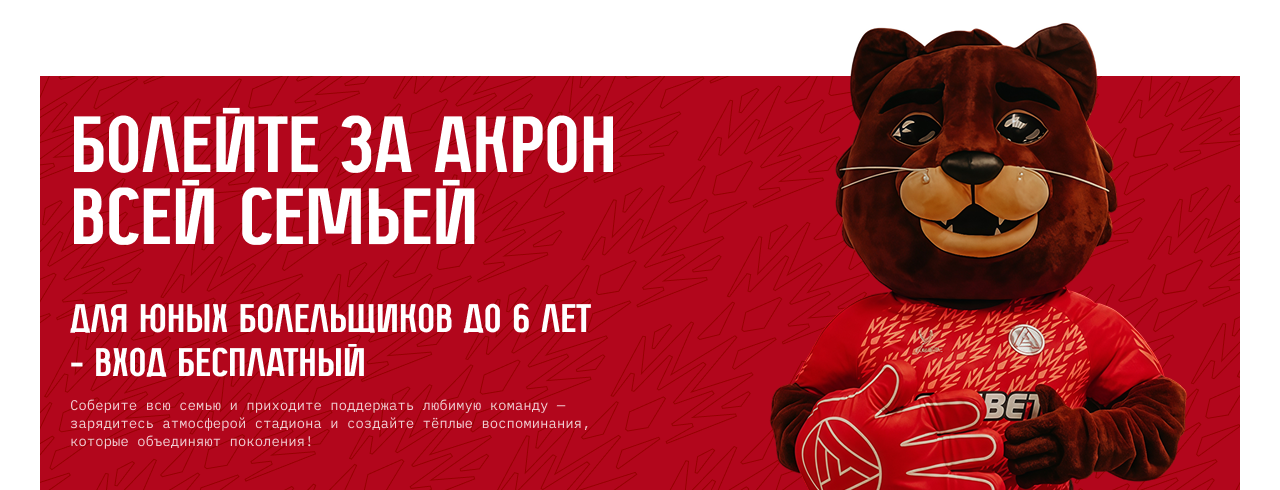
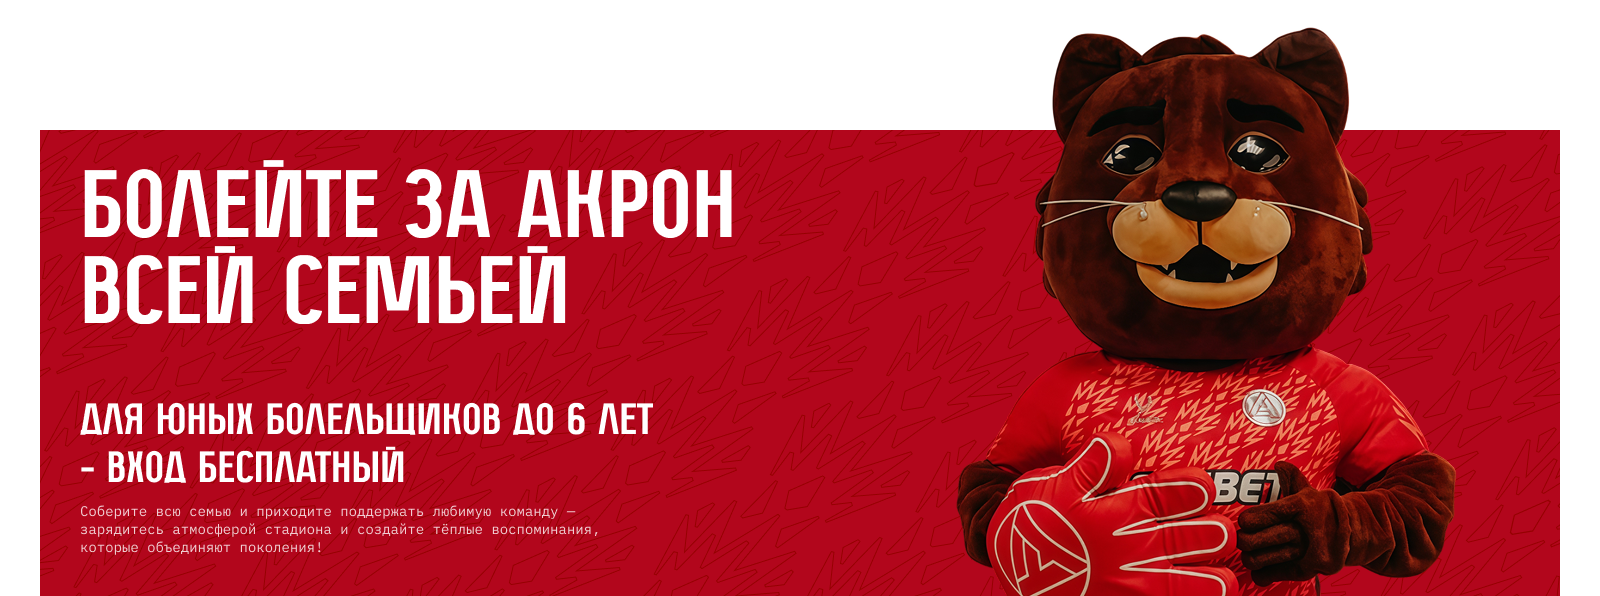
добавил адаптив 1600 блок оффер

diff --git a/src/features/home/offer/Offer.module.scss b/src/features/home/offer/Offer.module.scss
@@ -4,6 +4,10 @@
 	margin-top: 60px;
 	margin-bottom: 120px;
 	width: 100%;
+
+	@include from($bp-desktop) {
+		margin-top: 180px;
+	}
 }
 
 .inner {
@@ -25,6 +29,11 @@
 
 	@include from($bp-laptop) {
 		max-width: 1280px;
+	}
+
+	/* Figma 4810:9831 — артборд 1600, контент баннера 1520 (поля .inner 40px) */
+	@include from($bp-desktop) {
+		max-width: 1600px;
 	}
 }
 
@@ -98,6 +107,22 @@
 			mix-blend-mode: multiply;
 		}
 	}
+
+	/* Figma 4810:9831 — высота 466px; маскот с x=810 во фрейме 1520 → padding-right 710px */
+	@include from($bp-desktop) {
+		align-items: stretch;
+		min-height: 466px;
+		height: auto;
+		padding-right: 710px;
+
+		&::before {
+			background-image: url('/images/offer/Pattern1600.png');
+			background-repeat: no-repeat;
+			background-position: center;
+			background-size: 100% 100%;
+			mix-blend-mode: multiply;
+		}
+	}
 }
 
 @keyframes offerFadeIn {
@@ -136,6 +161,10 @@
 		min-width: 0;
 		padding-block: 40px;
 		padding-inline: 30px;
+	}
+
+	@include from($bp-desktop) {
+		padding-inline: 40px;
 	}
 }
 
@@ -184,6 +213,12 @@
 		font-size: 80px;
 		line-height: 0.9;
 	}
+
+	/* Figma 4810:11472 — max 855px; y подзаголовка 273 − низ заголовка 193 = 80px */
+	@include from($bp-desktop) {
+		max-width: 855px;
+		margin: 0 0 80px;
+	}
 }
 
 .textBlock {
@@ -210,6 +245,10 @@
 
 	@include from($bp-laptop) {
 		max-width: 551px;
+	}
+
+	@include from($bp-desktop) {
+		max-width: 581px;
 	}
 }
 
@@ -248,6 +287,11 @@
 		max-width: 551px;
 		font-size: 40px;
 		line-height: 1.1;
+	}
+
+	/* Figma 4810:11474 — ширина текстового блока 595px */
+	@include from($bp-desktop) {
+		max-width: 595px;
 	}
 }
 
@@ -317,6 +361,14 @@
 		width: 553px;
 		height: 490px;
 	}
+
+	/* Figma 4810:11476 — 670×596, y=−130, отступ справа 40px во фрейме 1520 */
+	@include from($bp-desktop) {
+		right: 40px;
+		left: auto;
+		width: 670px;
+		height: 596px;
+	}
 }
 
 .picture {
@@ -369,13 +421,21 @@
 		object-position: right bottom;
 	}
 
-	/* 1280: mascot-1280.png — фрейм 553×490 */
+	/* 1280: масштаб в фрейме маскота */
 	@include from($bp-laptop) {
 		right: 0;
 		left: auto;
 		width: 118%;
 		max-width: none;
 		max-height: 110%;
+		object-position: right bottom;
+	}
+
+	/* 1600: без 118%/110% — картинка не вылезает за 670×596; выступ головы за счёт высоты фрейма */
+	@include from($bp-desktop) {
+		width: 100%;
+		max-width: 100%;
+		max-height: 100%;
 		object-position: right bottom;
 	}
 }

diff --git a/src/features/home/offer/OfferBanner.tsx b/src/features/home/offer/OfferBanner.tsx
@@ -5,6 +5,7 @@ import {
 	OFFER_MASCOT_TABLET,
 	OFFER_MASCOT_WIDE,
 	OFFER_MASCOT_LAPTOP,
+	OFFER_MASCOT_DESKTOP,
 } from './offerAssets'
 import styles from './Offer.module.scss'
 
@@ -20,6 +21,7 @@ export type OfferBannerProps = {
 	imageSrcTablet?: string
 	imageSrcWide?: string
 	imageSrcLaptop?: string
+	imageSrcDesktop?: string
 	className?: string
 	headingId?: string
 }
@@ -32,6 +34,7 @@ export const OfferBanner: FC<OfferBannerProps> = ({
 	imageSrcTablet = OFFER_MASCOT_TABLET,
 	imageSrcWide = OFFER_MASCOT_WIDE,
 	imageSrcLaptop = OFFER_MASCOT_LAPTOP,
+	imageSrcDesktop = OFFER_MASCOT_DESKTOP,
 	className,
 	headingId = 'offer-heading',
 }) => {
@@ -48,6 +51,7 @@ export const OfferBanner: FC<OfferBannerProps> = ({
 			</div>
 			<div className={styles.imageWrap}>
 				<picture className={styles.picture}>
+					<source media="(min-width: 1600px)" srcSet={imageSrcDesktop} />
 					<source media="(min-width: 1280px)" srcSet={imageSrcLaptop} />
 					<source media="(min-width: 1024px)" srcSet={imageSrcWide} />
 					<source media="(min-width: 767px)" srcSet={imageSrcTablet} />
@@ -55,8 +59,8 @@ export const OfferBanner: FC<OfferBannerProps> = ({
 						className={styles.image}
 						src={imageSrc}
 						alt=""
-						width={1106}
-						height={980}
+						width={1340}
+						height={1192}
 						decoding="async"
 						loading="lazy"
 					/>

diff --git a/src/features/home/offer/OfferSection.tsx b/src/features/home/offer/OfferSection.tsx
@@ -15,6 +15,7 @@ export type OfferSectionProps = {
 	imageSrcTablet?: string
 	imageSrcWide?: string
 	imageSrcLaptop?: string
+	imageSrcDesktop?: string
 	className?: string
 }
 
@@ -26,6 +27,7 @@ export const OfferSection: FC<OfferSectionProps> = ({
 	imageSrcTablet,
 	imageSrcWide,
 	imageSrcLaptop,
+	imageSrcDesktop,
 	className,
 }) => {
 	return (
@@ -42,6 +44,7 @@ export const OfferSection: FC<OfferSectionProps> = ({
 					imageSrcTablet={imageSrcTablet}
 					imageSrcWide={imageSrcWide}
 					imageSrcLaptop={imageSrcLaptop}
+					imageSrcDesktop={imageSrcDesktop}
 				/>
 			</div>
 		</section>

diff --git a/src/features/home/offer/offerAssets.ts b/src/features/home/offer/offerAssets.ts
@@ -7,3 +7,5 @@ export const OFFER_MASCOT_WIDE = '/images/offer/mascot-1024.png'
 export const OFFER_PATTERN_WIDE = '/images/offer/Pattern1024.png'
 export const OFFER_MASCOT_LAPTOP = '/images/offer/mascot-1280.png'
 export const OFFER_PATTERN_LAPTOP = '/images/offer/Pattern1280.png'
+export const OFFER_MASCOT_DESKTOP = '/images/offer/mascot-1600.png'
+export const OFFER_PATTERN_DESKTOP = '/images/offer/Pattern1600.png'

diff --git a/src/features/home/index.ts b/src/features/home/index.ts
@@ -9,9 +9,11 @@ export {
 	OFFER_MASCOT_TABLET,
 	OFFER_MASCOT_WIDE,
 	OFFER_MASCOT_LAPTOP,
+	OFFER_MASCOT_DESKTOP,
 	OFFER_PATTERN_MOBILE,
 	OFFER_PATTERN_TABLET,
 	OFFER_PATTERN_WIDE,
 	OFFER_PATTERN_LAPTOP,
+	OFFER_PATTERN_DESKTOP,
 } from './offer'
 export { UpcomingMatches, type UpcomingMatchesProps } from './upcoming-matches'

diff --git a/src/features/home/offer/index.ts b/src/features/home/offer/index.ts
@@ -6,8 +6,10 @@ export {
 	OFFER_MASCOT_TABLET,
 	OFFER_MASCOT_WIDE,
 	OFFER_MASCOT_LAPTOP,
+	OFFER_MASCOT_DESKTOP,
 	OFFER_PATTERN_MOBILE,
 	OFFER_PATTERN_TABLET,
 	OFFER_PATTERN_WIDE,
 	OFFER_PATTERN_LAPTOP,
+	OFFER_PATTERN_DESKTOP,
 } from './offerAssets'
